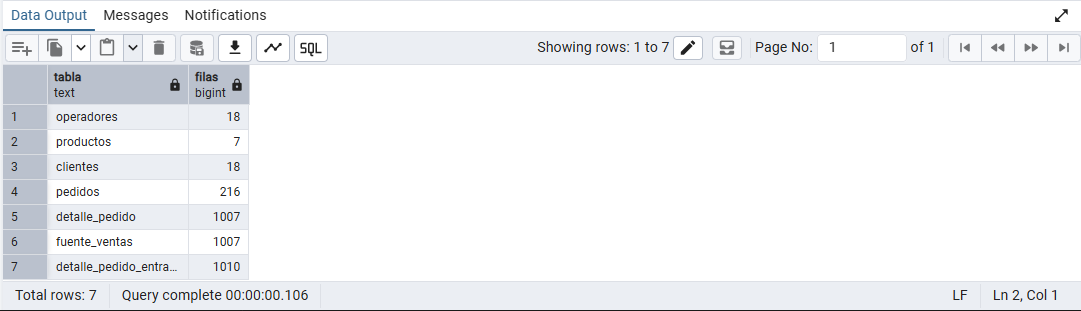
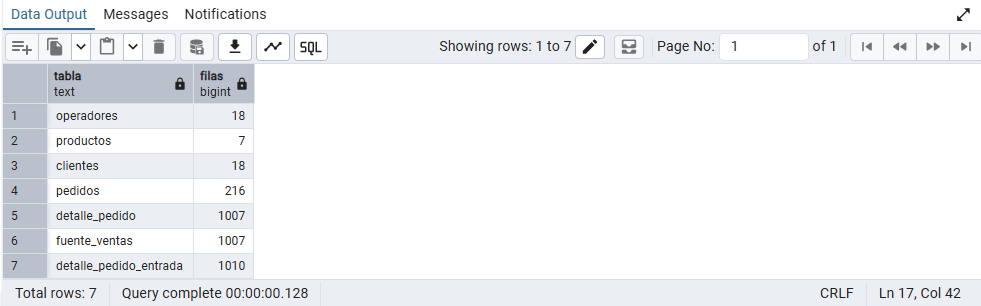
Reemplazar seis capturas con textos completos y cerrar revisión de legibilidad

diff --git a/PROJECT_STATE.md b/PROJECT_STATE.md
@@ -200,4 +200,10 @@ Se revisaron analisis.sql, validaciones.sql, estructura.sql y reiniciar_esquema.
 
 A solicitud del usuario, se corrigió la jerarquía del README y se preparó un checklist punto por punto. Se explicitó la comunicación en 2.5 y los controles en 4.1–4.4, incluido el criterio de no agregar índices sin evidencia de necesidad. Se verificó que estructura.sql no contiene CREATE INDEX adicional. El apartado 3 contextualiza el caso propio sin atribuirle análisis de canastas, PostGIS o JSON no realizados. Se conservaron los 15 bloques SQL del README y se comprobaron sus enlaces internos. Las conclusiones del apartado 6 se conservaron sin revisarlas en esta tarea.
 
-Esta es una revisión de cobertura documental y estructura, no una nueva ejecución integral del SQL ni una inspección visual de todas las capturas. Pendientes: revisión final de legibilidad (nombres truncados), prueba integral de reproducción si se exige el cierre técnico y revisión conjunta del apartado 6. El requisito de ejecutabilidad tiene evidencias previas; no marcarlo como nuevamente probado durante este checklist.
+Esta es una revisión de cobertura documental y estructura, no una nueva ejecución integral del SQL ni una inspección visual de todas las capturas. Pendientes: prueba integral de reproducción si se exige el cierre técnico y revisión conjunta del apartado 6. La revisión de legibilidad se cerró con las seis capturas de reemplazo. El requisito de ejecutabilidad tiene evidencias previas; no marcarlo como nuevamente probado durante este checklist.
+
+## Cierre de legibilidad de capturas
+
+Se recibieron y revisaron las seis capturas ampliadas: conteos_tablas.png, limpieza.png, tipos_datos.png, top_5_clientes.png, productos_menos_vendidos.png y ranking_pedidos_categoria.png. Se sustituyeron en las mismas rutas de imagenes/, sin duplicados ni cambios de enlaces en README. Los nombres de tablas, columnas, clientes, localidades y productos quedan completos; los resultados coinciden con las evidencias anteriores. Las otras siete capturas no requieren reemplazo según la revisión realizada. Queda resuelto el pendiente de nombres truncados.
+
+Siguiente paso: revisar conjuntamente el apartado 6, comprobando que las conclusiones distingan hallazgos, propuestas y límites de la simulación. No es necesaria una nueva carga de datos.
